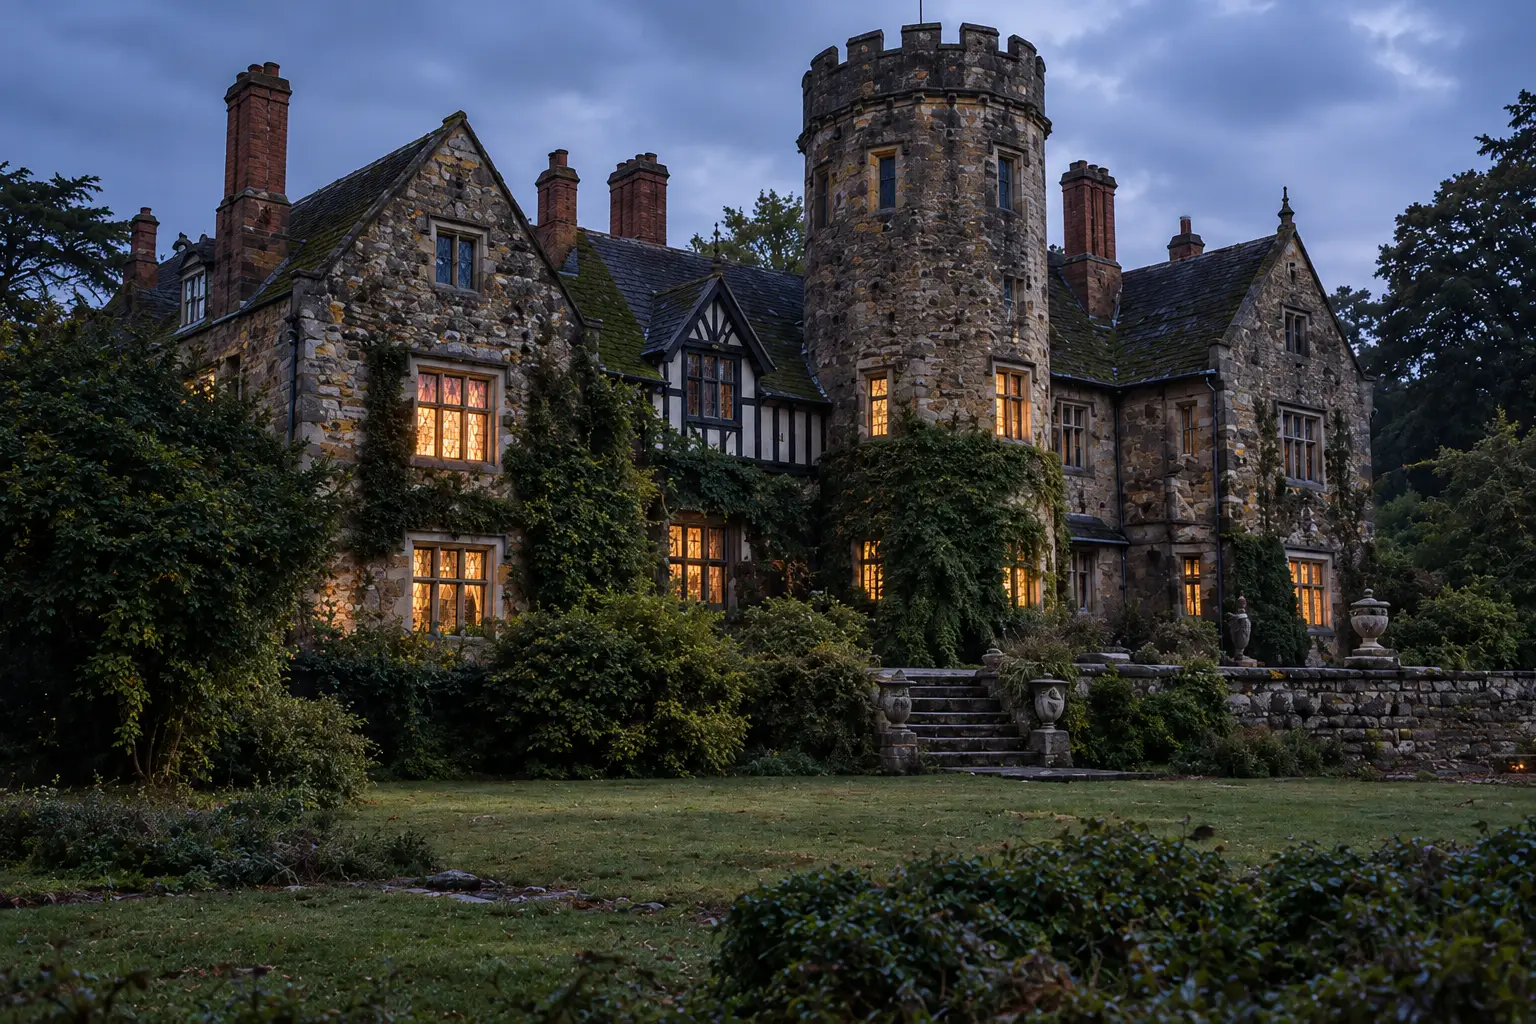
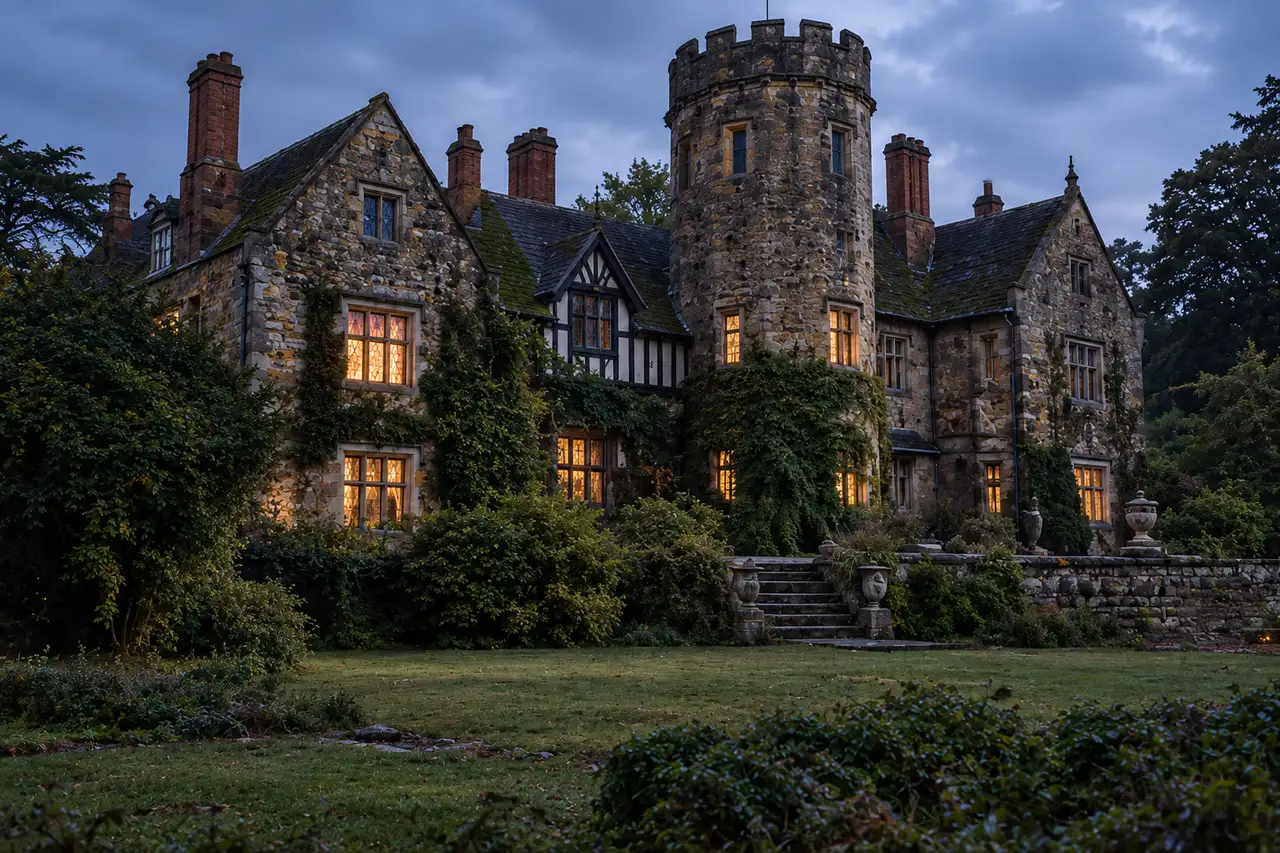
art: keep wide scene derivatives within approved byte budgets

Changed region(s): [[0.0312, 0.2743, 0.0625, 0.3048]]

diff --git a/src/assets/play/photos/creech/README.md b/src/assets/play/photos/creech/README.md
@@ -19,7 +19,7 @@ Actual initial laptop/phone workflows were inspected before remaining generation
 
 ## Native wide heroes
 
-The four full-panel scenes replace the initial sheet derivatives with standalone native 1536×1024 photos, preserving their reviewed composition. WebP compression stays within 160KiB. Their width covers the rendered laptop panel without enlargement; smaller token/Event/portrait controls retain native sheet cells.
+The four full-panel scenes replace the initial sheet derivatives with standalone native 1536×1024 photos (banner and restriction downsampled to 1280px wide), preserving their reviewed composition. WebP compression stays within 160KiB. Their width covers the rendered laptop panel without enlargement; smaller token/Event/portrait controls retain native sheet cells.
 
 | Asset | Standalone source |
 | --- | --- |
